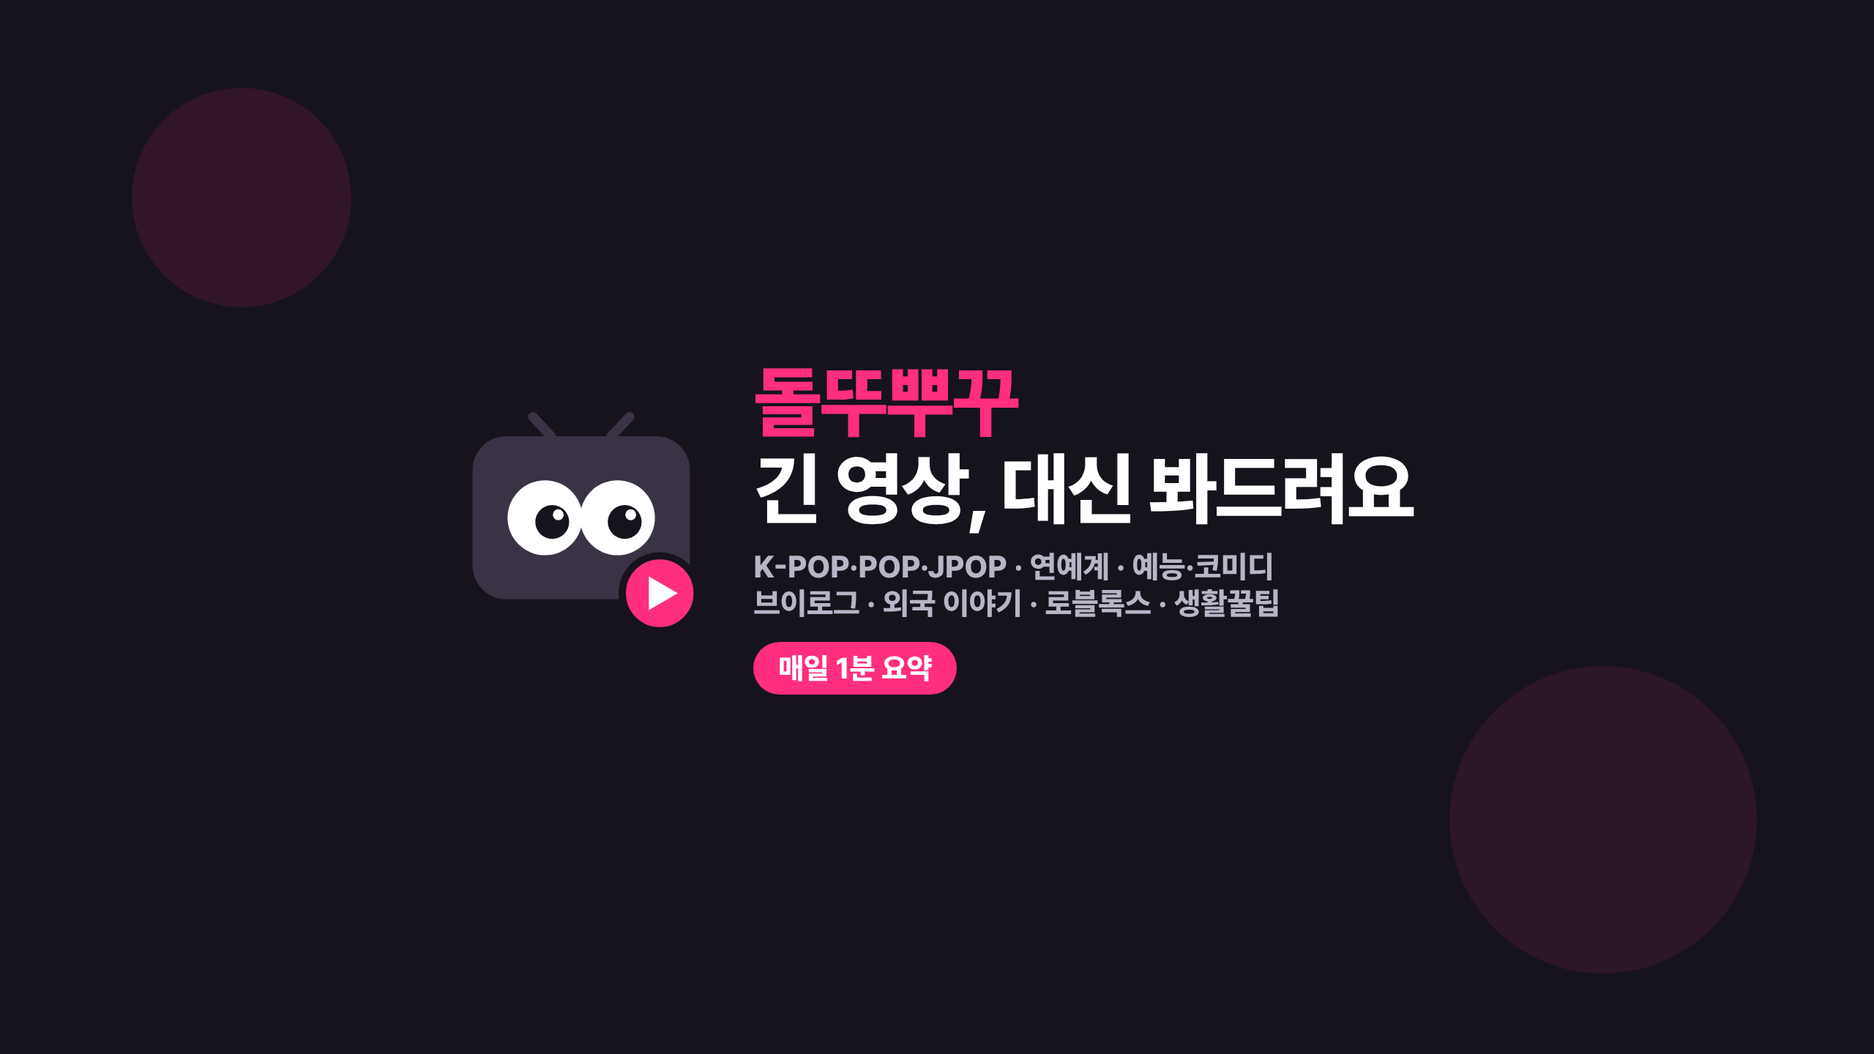
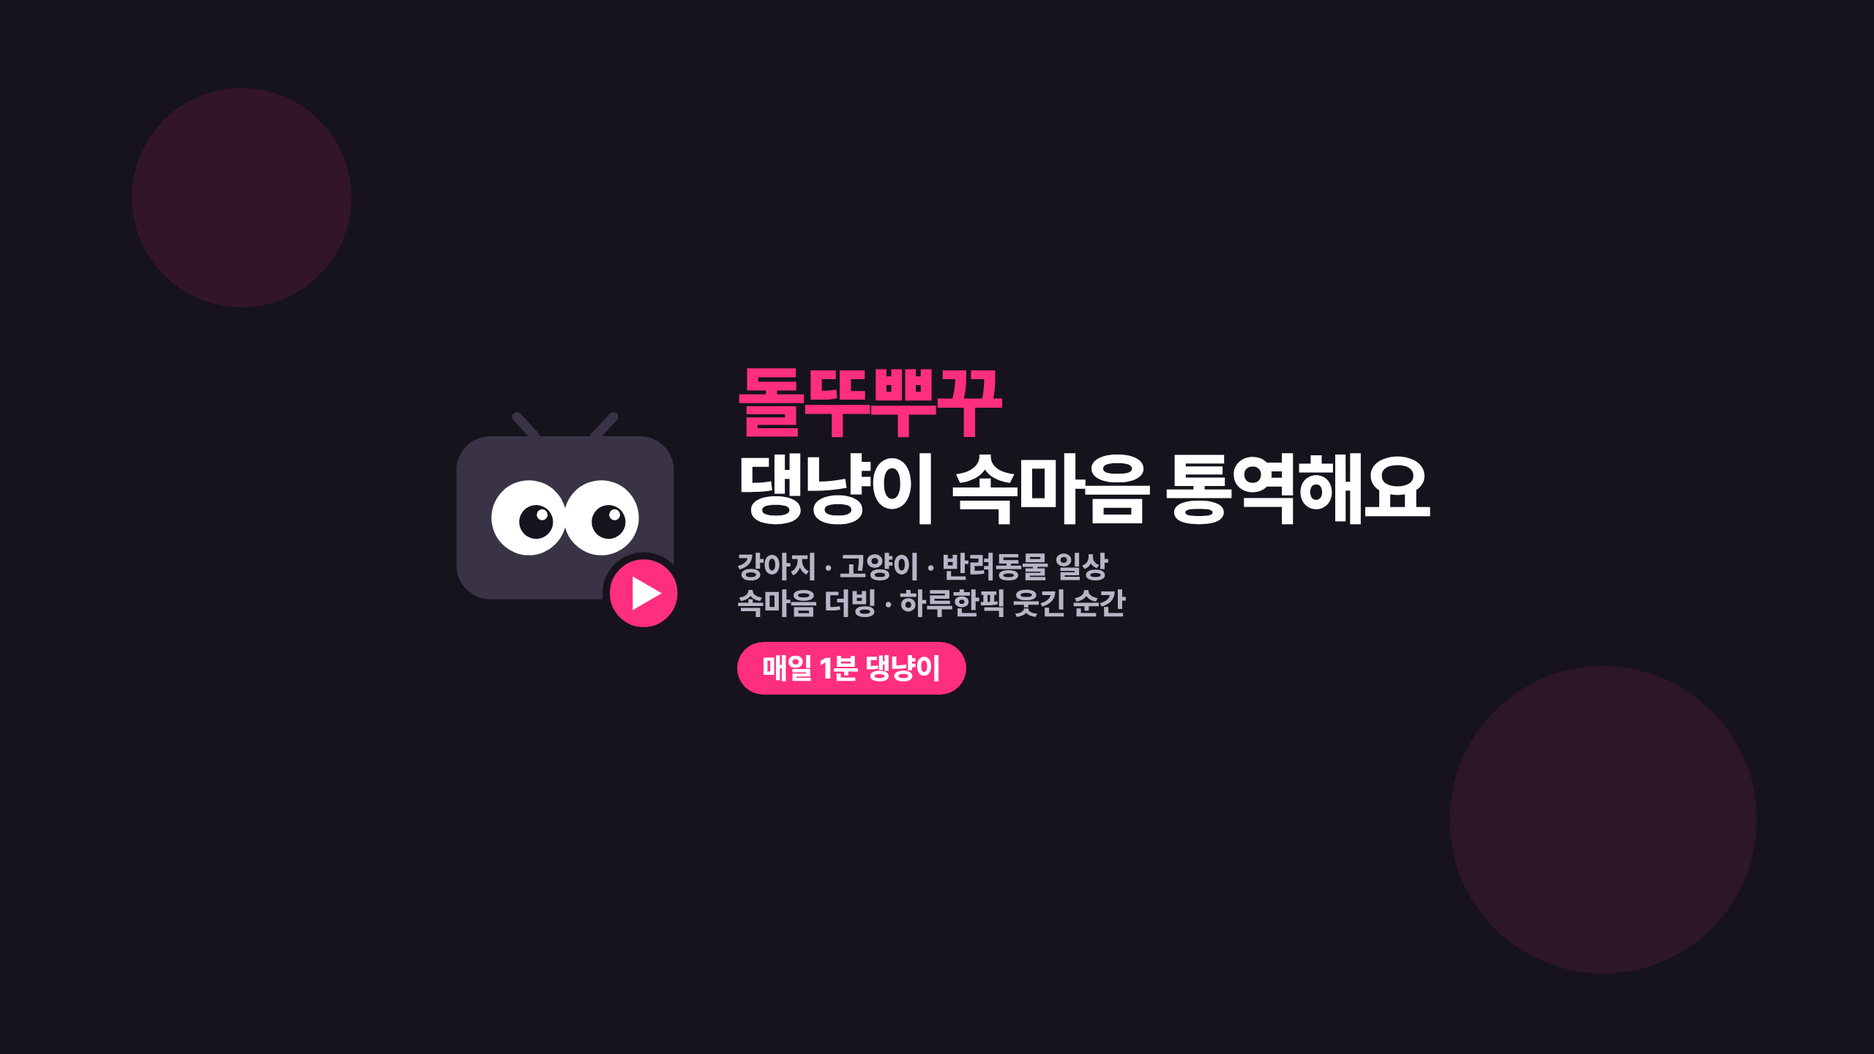
Switch channel concept to animal-only shorts (#2)
- PLAN.md: animal sources only; A = inner-voice dub, B = 하루한픽; scene finding,
  dub voice rules, animal hashtags; non-animal sources are skipped
- source.py: weekly suggestions search dog/cat terms only (4-20 min, last 5 years)
- brand.py / banner.png: animal tagline and categories
- PROMPTS.txt: both routine prompts rewritten for the animal concept

Claude-Session: https://claude.ai/code/session_01An2g1hzBfzo1BvParNwkus

Changed region(s): [[0.2188, 0.3438, 0.7812, 0.6562]]

diff --git a/shorts/source.py b/shorts/source.py
@@ -1,12 +1,12 @@
 #!/usr/bin/env python3
-"""source.py - long-form source videos for 돌뚜뿌꾸 review Shorts, from the Drive folder 롱폼원본.
+"""source.py - long-form animal source videos for 돌뚜뿌꾸 Shorts, from the Drive folder 롱폼원본.
 
     python3 source.py suggest           # CC candidates to download, per category (read-only)
     python3 source.py list              # videos in 롱폼원본: drive id, YouTube id, shorts already made from it
     python3 source.py fetch DRIVE_ID DIR # DIR/video.*, meta.json (YouTube title/channel/license), transcript.txt, frames.jpg, moves.txt
     python3 source.py moves VIDEO        # motion/loudness per 2 s + liveliest windows (animal sources have little dialogue)
 
-File names should contain the YouTube id in brackets, e.g. "세븐틴 브이로그 [md5zNFKvfvE].mp4" (yt-dlp's default);
+File names should contain the YouTube id in brackets, e.g. "간식 훔쳐먹은 강아지 [N9UJE7TMe1I].mp4" (yt-dlp's default);
 otherwise the exact video title is looked up among CC videos.
 A subtitle file with the same name (.srt/.vtt) is used as the transcript; otherwise faster-whisper transcribes.
 """
@@ -40,19 +40,17 @@ def find_id(name):
             return h["id"]["videoId"]
     return ""
 
-SEARCHES = ["아이돌 브이로그", "아이돌 비하인드", "kpop behind", "jpop", "pop music behind", "연예인 비하인드",
-            "브이로그", "해외 생활", "외국 이야기", "로블록스", "생활꿀팁",
-            "예능", "예능 레전드", "코미디빅리그", "1박2일", "개그", "몰래카메라", "웃긴 영상",
-            "강아지", "고양이", "반려동물 브이로그", "funny dog", "funny cat"]
+SEARCHES = ["웃긴 강아지", "웃긴 고양이", "강아지 반응", "고양이 반응", "강아지 브이로그", "고양이 브이로그",
+            "강아지 일상", "고양이 집사", "댕댕이", "반려동물 브이로그", "funny dog", "funny cat"]
 
 def cmd_suggest():
     """CC candidates per category (read-only): already used/downloaded ids removed, best first by views."""
     seen = {src for _, src in recent()} | {find_id(f["name"]) for f in drive_ls(FOLDER, "video/")}
-    after = (datetime.datetime.now(datetime.timezone.utc) - datetime.timedelta(days=365)).strftime("%Y-%m-%dT%H:%M:%SZ")
+    after = (datetime.datetime.now(datetime.timezone.utc) - datetime.timedelta(days=365 * 5)).strftime("%Y-%m-%dT%H:%M:%SZ")
     for q in SEARCHES:
         ids = [h["id"]["videoId"] for h in api("https://www.googleapis.com/youtube/v3/search?" + urllib.parse.urlencode(
             {"part": "snippet", "type": "video", "videoLicense": "creativeCommon", "q": q, "maxResults": 15,
-             "order": "viewCount", "publishedAfter": after, "relevanceLanguage": "ko"}))["items"]]
+             "order": "viewCount", "publishedAfter": after, "relevanceLanguage": "ko", "videoDuration": "medium"}))["items"]]
         ids = [i for i in ids if i not in seen]
         if not ids:
             continue

diff --git a/channel/brand.py b/channel/brand.py
@@ -49,9 +49,9 @@ def banner():
       <div style="position:absolute;right:160px;bottom:110px;width:420px;height:420px;border-radius:50%;background:{PINK};opacity:.10"></div>
       <div style="position:absolute;left:507px;top:508px;width:1546px;height:423px;display:flex;align-items:center;justify-content:center;gap:70px">
         <div style="width:330px;height:314px;flex:none">{logo(0.6).replace(f'stroke="{DARK}" stroke-width="16"', 'stroke="#3A3346" stroke-width="16"').replace(f'rx="56" fill="{DARK}"', 'rx="56" fill="#3A3346"')}</div>
-        <div><div style="font-size:108px;color:{WHITE};letter-spacing:-3px;line-height:1.1"><span style="color:{PINK}">돌뚜뿌꾸</span><br>긴 영상, 대신 봐드려요</div>
-          <div style="margin-top:22px;font-size:42px;color:#B9B4C6">K-POP·POP·JPOP · 연예계 · 예능·코미디<br>브이로그 · 외국 이야기 · 로블록스 · 생활꿀팁</div>
-          <div style="display:inline-block;margin-top:28px;background:{PINK};color:{WHITE};font-size:40px;padding:12px 34px;border-radius:999px">매일 1분 요약</div></div>
+        <div><div style="font-size:108px;color:{WHITE};letter-spacing:-3px;line-height:1.1"><span style="color:{PINK}">돌뚜뿌꾸</span><br>댕냥이 속마음 통역해요</div>
+          <div style="margin-top:22px;font-size:42px;color:#B9B4C6">강아지 · 고양이 · 반려동물 일상<br>속마음 더빙 · 하루한픽 웃긴 순간</div>
+          <div style="display:inline-block;margin-top:28px;background:{PINK};color:{WHITE};font-size:40px;padding:12px 34px;border-radius:999px">매일 1분 댕냥이</div></div>
       </div></div>""", 2560, 1440, os.path.join(ROOT, "channel", "banner.png"))
 
 def ease_back(x):

diff --git a/shorts/PLAN.md b/shorts/PLAN.md
@@ -1,89 +1,74 @@
-# 돌뚜뿌꾸 - 롱폼 CC 영상 리뷰 쇼츠 루틴
+# 돌뚜뿌꾸 - 동물 CC 영상 쇼츠 루틴
 
 ## 컨셉 (두 가지를 같이 운영)
-크리에이티브 커먼즈(CC BY) 롱폼 영상을 쇼츠로. 분야: K-POP·POP·JPOP, 연예계·연예인 활동, 브이로그,
-외국 이야기, 로블록스, 생활꿀팁, 예능·코미디(코빅·1박2일 같은 개그 프로그램),
-동물(강아지·고양이 등 반려동물). (치이카와·치어리더·룩북 제외)
-- **A. 리뷰** (40~55초): 처음 TTS 훅 → 원본 장면들(출연자 목소리) → 마지막 TTS 마무리
-- **B. 하루한픽** (15~30초, TTS 없음): 하이라이트 장면을 먼저 살짝 → 그 장면까지의 흐름 → 펀치라인.
-  흰 화면 위 영상 + 상단 제목 + 하단 한 줄 코멘트 + 출처. 세로(폰 촬영) 원본이면 자동으로 전체 화면 + 상단 흰 제목 띠 + 초록 코멘트. 웃긴 순간·리액션·반전이 있는 원본(특히 예능)에 맞음
-- 한 번 실행에 3개: **A 2개 + B 1개**. B에 맞는 웃긴 장면이 없으면 A 3개
-- 배경음악 없음 (두 컨셉 모두)
-- 방송사 예능(1박2일·코빅 등)은 대부분 CC가 아님 → 저작권자가 직접 CC로 올린 것만 사용
-- **동물 원본**(강아지·고양이 등): A는 "동물 속마음 더빙"으로, B는 그대로 (아래 "동물 원본" 참고)
+크리에이티브 커먼즈(CC BY) **동물 롱폼 영상**(강아지·고양이 등 반려동물)을 쇼츠로. 동물이 아닌 원본은 쓰지 않는다.
+- **A. 속마음 더빙** (40~55초): 동물 1인칭 속마음 나레이션(TTS) + 원본 장면. 원본 현장음은 나레이션 밑에 작게 깔림.
+  웃긴 소리(짖음·하악질·주인 리액션)는 원본 장면 그대로
+- **B. 하루한픽** (15~30초, TTS 없음): 웃긴 순간을 먼저 살짝 → 그 순간까지의 흐름 → 펀치라인.
+  흰 화면 위 영상 + 상단 제목 + 하단 한 줄 코멘트 + 출처. 세로(폰 촬영) 원본이면 자동으로 전체 화면 + 상단 흰 제목 띠 + 초록 코멘트
+- 한 번 실행에 3개: **A 2개 + B 1개**. B에 맞는 웃긴 순간이 없으면 A 3개
+- 배경음악 없음 (두 컨셉 모두). 업로더가 깐 배경음악이 계속 나오는 구간은 쓰지 않는다 (음원 신고). 현장음 위주 원본만
+- 동물을 괴롭히거나 다치는 장면, 위험한 장면, 아픈 동물을 웃음거리로 만드는 장면은 쓰지 않는다
 
 ## 구성
 - 계정: 채널 계정 (채널명 돌뚜뿌꾸), 환경 변수 YT_* / GOOGLE_TTS_KEY (브랜드 채널이면 DRIVE_REFRESH_TOKEN)
-- 원본: 사용자가 채널 계정 드라이브 `롱폼원본` 폴더에 넣음. 파일명에 `[유튜브ID]` 권장 (예: `세븐틴 브이로그 [md5zNFKvfvE].mp4`).
+- 원본: 사용자가 채널 계정 드라이브 `롱폼원본` 폴더에 넣음. 파일명에 `[유튜브ID]` 권장 (예: `간식 훔쳐먹은 강아지 [N9UJE7TMe1I].mp4`).
   [유튜브ID]가 없으면 파일명(=영상 제목)으로 CC 영상을 찾아 매칭. 같은 이름의 .srt/.vtt 가 있으면 자막으로 씀. 없으면 faster-whisper 로 자동 생성 (`*.hf.co` 네트워크 허용 필요)
 - 클라우드에서 YouTube 직접 다운로드는 봇 차단으로 불가 → 드라이브 경유
-- `source.py` 원본 목록/가져오기 → `make.py` 쇼츠 생성 (원본 구간 + 원본 목소리 + 자막, A는 처음·끝 TTS) → `upload.py` 예약 공개
+- `source.py` 원본 목록/가져오기 → `make.py` 쇼츠 생성 (원본 구간 + 현장음 + 자막, A는 속마음 더빙 TTS) → `upload.py` 예약 공개
 - 브랜딩: `channel/brand.py` (프로필, 배너. `shorts/intro.mp4` 는 만들어 두기만 하고 쇼츠에는 안 씀)
 - 루틴: 06:40, 11:40, 17:40 KST에 제작 → 07:30, 12:30, 19:00에 3개씩 예약 공개
-- 주간 원본 추천 루틴: 매주 월요일, 받을 CC 영상 목록을 알림으로 보냄
+- 주간 원본 추천 루틴: 매주 월요일, 받을 동물 CC 영상 목록을 알림으로 보냄
 
 ## 루틴 한 번 = 이렇게
 0. `pip install -q faster-whisper` (자막 없는 원본용)
-1. `python3 shorts/source.py list` → `n/3 made` 인 원본 중 하나 고름 (`done`·`skip` 제외). 원본 하나로 서로 다른 장면 쇼츠 최대 3개.
-   쓸 원본이 없으면 만들지 말고 "롱폼원본에 새 영상 필요"라고 보고하고 끝낸다.
-2. `python3 shorts/source.py fetch <drive_id> src/` → `src/meta.json`, `src/transcript.txt`(초 단위 시작시각 + 대사), `src/frames.jpg`(타임스탬프 24장)
+1. `python3 shorts/source.py list` → `n/3 made` 인 원본 중 **제목으로 봐서 동물 영상인 것만** 하나 고름 (`done`·`skip` 제외).
+   동물이 아닌 원본(K-POP·예능 등)은 건너뛴다. 원본 하나로 서로 다른 장면 쇼츠 최대 3개.
+   쓸 동물 원본이 없으면 만들지 말고 "롱폼원본에 새 동물 영상 필요"라고 보고하고 끝낸다.
+2. `python3 shorts/source.py fetch <drive_id> src/` → `src/meta.json`, `src/transcript.txt`(초 단위 시작시각 + 말소리),
+   `src/frames.jpg`(타임스탬프 24장), `src/moves.txt`(2초마다 화면 움직임 0~100·소리 크기 + 끝줄에 가장 활발한 20초 구간 3개)
    - **license 가 creativeCommon 이 아니면 그 원본은 쓰지 않는다.**
-   - 업로더가 실제 저작권자인지 확인: 공식 소속사·방송사·본인 채널 OK. 영화·드라마·음방을 개인이 CC로 재업로드한 건 쓰지 않는다
+   - 업로더가 실제 저작권자인지 확인: 직접 찍은 반려인·크리에이터 본인 채널만. 틱톡·인스타 영상 모음, "웃긴 동물 모음" 재업로드 채널은 쓰지 않는다
    - `upload.py --recent` 에 같은 원본 ID로 이미 만든 쇼츠 제목이 있으면 그것과 다른 장면·다른 포인트로 쓴다
-   - `src/moves.txt`: 2초마다 화면 움직임(0~100)·소리 크기 + 끝줄에 가장 활발한 20초 구간 3개. 대사가 적은 동물 원본에서 장면 찾는 데 쓴다
-3. transcript.txt 와 frames.jpg(필요하면 해당 구간 프레임을 ffmpeg로 더 뽑아 직접 봄)를 보고 script.json 작성.
+3. 장면 찾기: 동물 영상은 대사가 적다. frames.jpg·moves.txt 로 후보 구간을 잡고, 그 구간 프레임을 ffmpeg 로 더 뽑아 직접 본다
+   (예: `ffmpeg -ss 60 -i src/video.mp4 -t 60 -vf "fps=1/4,scale=480:-2,tile=3x5" -frames:v 1 p.jpg`).
+   원본 화면에 박힌 업로더 자막·원본 설명란에서 상황과 동물 이름을 파악한다. transcript.txt 는 주인 말소리 확인용.
+   좋은 순간: 넘어짐·미끄러짐, 깜짝 놀람, 애교·꾹꾹이, 간식 앞 반응, 주인과의 밀당, 혼날 때 눈치, 기대와 다른 반전
+
+   **A. 속마음 더빙** script:
+   ```json
+   {"title": "간식 훔쳐먹고\n*숨어버린* 강아지", "source": "src/video.mp4", "dub": true,
+    "scenes": [{"say": "아침부터 간식 봉지가 *뜯겨* 있어요. 범인은 누굴까요?", "src": [20, 24]},
+               {"say": "저요? 저는... 집에 있는데요?", "src": [46, 62]},
+               {"orig": [84, 92], "lines": []},
+               {"say": "엄마가 아무 말도 안 해요. 이게 더 *무서워요*.", "src": [128, 132]},
+               {"orig": [164, 172], "lines": [[165.0, "", "이제 그만 먹어야 돼"]]},
+               {"say": "뽀뽀 한 번이면 끝! 여러분 집 댕댕이도 이래요?", "src": [172]}]}
+   ```
+   - 나레이션 장면 `{"say": "...", "src": [시작초, ...]}` : 속마음 TTS + 그 구간 화면 + 현장음 작게. 시작초 여러 개면 컷을 나눠 보여줌
+   - 원본 장면 `{"orig": [시작초, 끝초], "lines": [[시작초, "이름", "말"], ...]}` : 현장음 그대로 3~15초. 주인 말소리가 있으면 transcript 에서 그대로 자막으로.
+     말하는 사람 이름은 확실할 때만, 아니면 "" (얼굴로 판단하지 않는다)
+   - 구성(40~55초): 첫 장면 훅(상황·반전·질문) → 속마음 + 원본 장면 번갈아 → 마지막은 시청자 질문 ("여러분 집 냥이도 이래요?")
+   - 속마음 말투: 동물 1인칭, 해요체(반말·은어 금지), 짧게 끊고 감정·능청·반전. 한 문장 20자 안팎
+     좋음: "저요? 저는... 집에 있는데요?" / "모르는 척... 모르는 척..." / "이건 이제 제 거예요."
+     나쁨: 상황 설명문 ("강아지가 간식을 먹었어요"), "~했어요. ~했어요." 나열
+   - 여러 마리가 나오면 누구 속마음인지 화면으로 분명할 때만 (그 동물이 화면 중심일 때)
+   - 동물 이름은 원본 제목·설명·업로더 자막·대화에 나올 때만 쓴다
+   - 나레이션 합계 250자 안팎 (상한 700자)
+
    **B. 하루한픽** script:
    ```json
-   {"style": "pick", "title": "황제성이 무대에 *난입*한 이유", "comment": "화난 황제성이 제일 웃김ㅋㅋ",
+   {"style": "pick", "title": "투명벽 앞에서 *멈춘* 고양이", "comment": "표정이 다 했다ㅋㅋ",
     "credit": "출처 <원본 채널명>", "source": "src/video.mp4",
-    "scenes": [{"orig": [하이라이트 시작, 끝], "lines": [...]}, {"orig": [...], "lines": [...]}]}
+    "scenes": [{"orig": [하이라이트 시작, 끝], "lines": []}, {"orig": [...], "lines": [...]}]}
    ```
-   - 첫 장면 = 펀치라인을 2~3초만 미리 보여줌(궁금증). 그다음 그 장면에 이르는 흐름을 원본 그대로 이어서 끝까지
-   - say 금지(TTS 없음). 제목은 "~한 이유", "~의 결과" 처럼 궁금하게 20자 이내, 강조 *단어*는 분홍
+   - 첫 장면 = 펀치라인을 2~3초만 미리 보여줌(궁금증). 그다음 그 순간에 이르는 흐름을 원본 그대로 이어서 끝까지
+   - say 금지(TTS 없음). 원본 소리(동물 소리·주인 리액션) 그대로. 제목은 "~한 이유", "~의 결과" 처럼 궁금하게 20자 이내, 강조 *단어*는 분홍
    - comment 는 시청자 같은 한 줄 반응 (ㅋㅋ 허용), 15자 안팎
-   - 합계 15~30초. 노래·무대 음악 구간 금지는 똑같이
-
-   **A. 리뷰** script:
-   ```json
-   {"title": "상단 고정 제목 2줄, *강조*는 노란색", "source": "src/video.mp4",
-    "scenes": [{"say": "훅", "src": [시작초]}, {"orig": ...}, {"orig": ...}, {"say": "마무리", "src": [시작초]}]}
-   ```
-   - 나레이션(say)은 **첫 장면과 마지막 장면에만** (make.py가 다른 위치면 거부). 가운데는 전부 원본 장면
-     · 나레이션 장면 `{"say": "...", "src": [시작초, ...]}` : 리뷰어 목소리(TTS) + 원본 화면(소리 없음)
-     · **원본 장면** `{"orig": [시작초, 끝초], "lines": [[시작초, "이름", "대사"], ...]}` : 출연자 목소리 그대로 + 줄별 자막. 3~15초
-       시작초·대사는 transcript.txt 에서 그대로. 이름은 **성 빼고 두 글자**(도겸, 승관, 민규)로 분홍색 표시.
-       이름은 원본 자막·대화 문맥(예: "[사진을 찍는 민규]", 본인 호칭)으로 **확실할 때만**. 애매하면 "" (얼굴로 판단하지 않는다)
-   - 구성(40~55초): 훅 나레이션(영상 요약, 흥미를 끄는 말) → 원본 장면 3~4개 → 마무리 나레이션 + 질문.
-     **원본 장면 3개 이상** — 재미는 출연자 본인 목소리에서 나온다. 웃긴 말·반전·리액션 순간을 transcript에서 고른다
-   - 원본 장면에 노래·무대 음악이 깔린 구간은 쓰지 않는다 (음원 신고). 말소리 구간만
-   - 나레이션은 줄거리 요약 금지. **리액션하는 친구 말투**: 짧게 끊고, 감탄·질문·반전을 넣는다
-     좋음: "근데 여기서 반전이에요." / "아니 이걸 본인이 말한다고요?" / "이 표정 좀 보세요."
-     나쁨: "~했어요. ~했어요." 식 나열, "~할 정도였어요", 설명문
-   - 해요체 유지(반말·은어 금지)지만 문장마다 감정이 있어야 함. 한 문장 25자 이내 권장
-   - 첫 2초 훅: 결과/반전/질문을 먼저 ("민규가 갑자기 대기실에 나타난 이유, 아세요?")
-   - 마지막: 시청자에게 질문 하나 ("여러분은 누구 편이에요?") — 댓글 유도
-   - 나레이션 합계 150자 안팎 (상한 700자)
-   **동물 원본** (강아지·고양이 등 - 대사가 거의 없음):
-   - 장면 찾기: transcript 대신 frames.jpg·moves.txt 로 후보를 잡고, 그 구간 프레임을 ffmpeg 로 더 뽑아 직접 본다.
-     좋은 순간: 넘어짐·미끄러짐, 깜짝 놀람, 애교·꾹꾹이, 간식 앞 반응, 주인과의 밀당, 기대와 다른 반전
-   - **A → 동물 속마음 더빙**: script 에 `"dub": true` 를 넣으면 나레이션을 중간 장면에도 쓸 수 있고, 원본 동물 소리가 작게 깔린다.
-     ```json
-     {"title": "간식 *숨긴 곳* 들킨 강아지", "source": "src/video.mp4", "dub": true,
-      "scenes": [{"say": "주인이 간식 숨기는 거, 다 봤거든요?", "src": [12]},
-                 {"say": "여기도 아니고... *여기*도 아니고", "src": [20, 23]},
-                 {"orig": [26, 31], "lines": []},
-                 {"say": "찾았다. 이건 이제 제 거예요.", "src": [31]},
-                 {"say": "여러분 집 댕댕이도 이래요?", "src": [40]}]}
-     ```
-     · 동물 1인칭 속마음 대사 (해요체, 짧게, 한 문장 20자 안팎). 주인 목소리나 짖는·우는 소리가 웃기면 그 구간은 `orig` 로 그대로
-     · 첫 장면 훅, 마지막은 시청자 질문 - A와 같음. 나레이션 합계 250자 안팎 (상한 700자). 40~55초
-     · 동물 이름은 원본 제목·설명·대화에 나올 때만 쓴다
-   - **B 하루한픽**은 그대로: 웃긴 순간 하나를 미리 살짝 → 흐름 → 펀치라인. 원본 소리(동물 소리·주인 리액션) 그대로
-   - 원본에 업로더가 깐 배경음악이 계속 나오면 그 구간은 쓰지 않는다 (음원 신고). 현장음 위주 원본만
-   - 동물을 괴롭히거나 다치는 장면, 위험한 장면은 쓰지 않는다
+   - 합계 15~30초
 
 4. `python3 shorts/make.py script.json -o short.mp4`
-5. 제목(40자 이내, 인물·숫자·구체어)과 설명란 → `python3 shorts/upload.py short.mp4 --title ... --desc ... --publish-at <공개 시각>`
+5. 제목(40자 이내, 동물 종류·이름·구체적 상황)과 설명란 → `python3 shorts/upload.py short.mp4 --title ... --desc ... --publish-at <공개 시각>`
    설명란 형식 (해시태그 3개 미만이면 거부, `youtu.be/ID` 링크로 원본 사용 횟수를 셈 - 반드시 넣을 것):
    ```
    한 줄 요약 (이 영상에서 뭘 볼 수 있는지)
@@ -96,7 +81,6 @@
    https://youtu.be/<유튜브ID>
    라이선스: 크리에이티브 커먼즈 저작자 표시(CC BY)
 
-   #돌뚜뿌꾸 #<인물/그룹> #<분야> ... 8~12개 #shorts
+   #돌뚜뿌꾸 #강아지 또는 #고양이 #반려동물 #동물 #<견종/묘종> ... 8~12개 #shorts
    ```
-   B 는 제목 앞에 "하루한픽 | " 을 붙이고 해시태그에 #하루한픽 추가.
-   동물 원본이면 해시태그에 #강아지 또는 #고양이 #반려동물 #동물 추가
+   A 는 해시태그에 #강아지더빙 또는 #고양이더빙 추가. B 는 제목 앞에 "하루한픽 | " 을 붙이고 해시태그에 #하루한픽 추가
